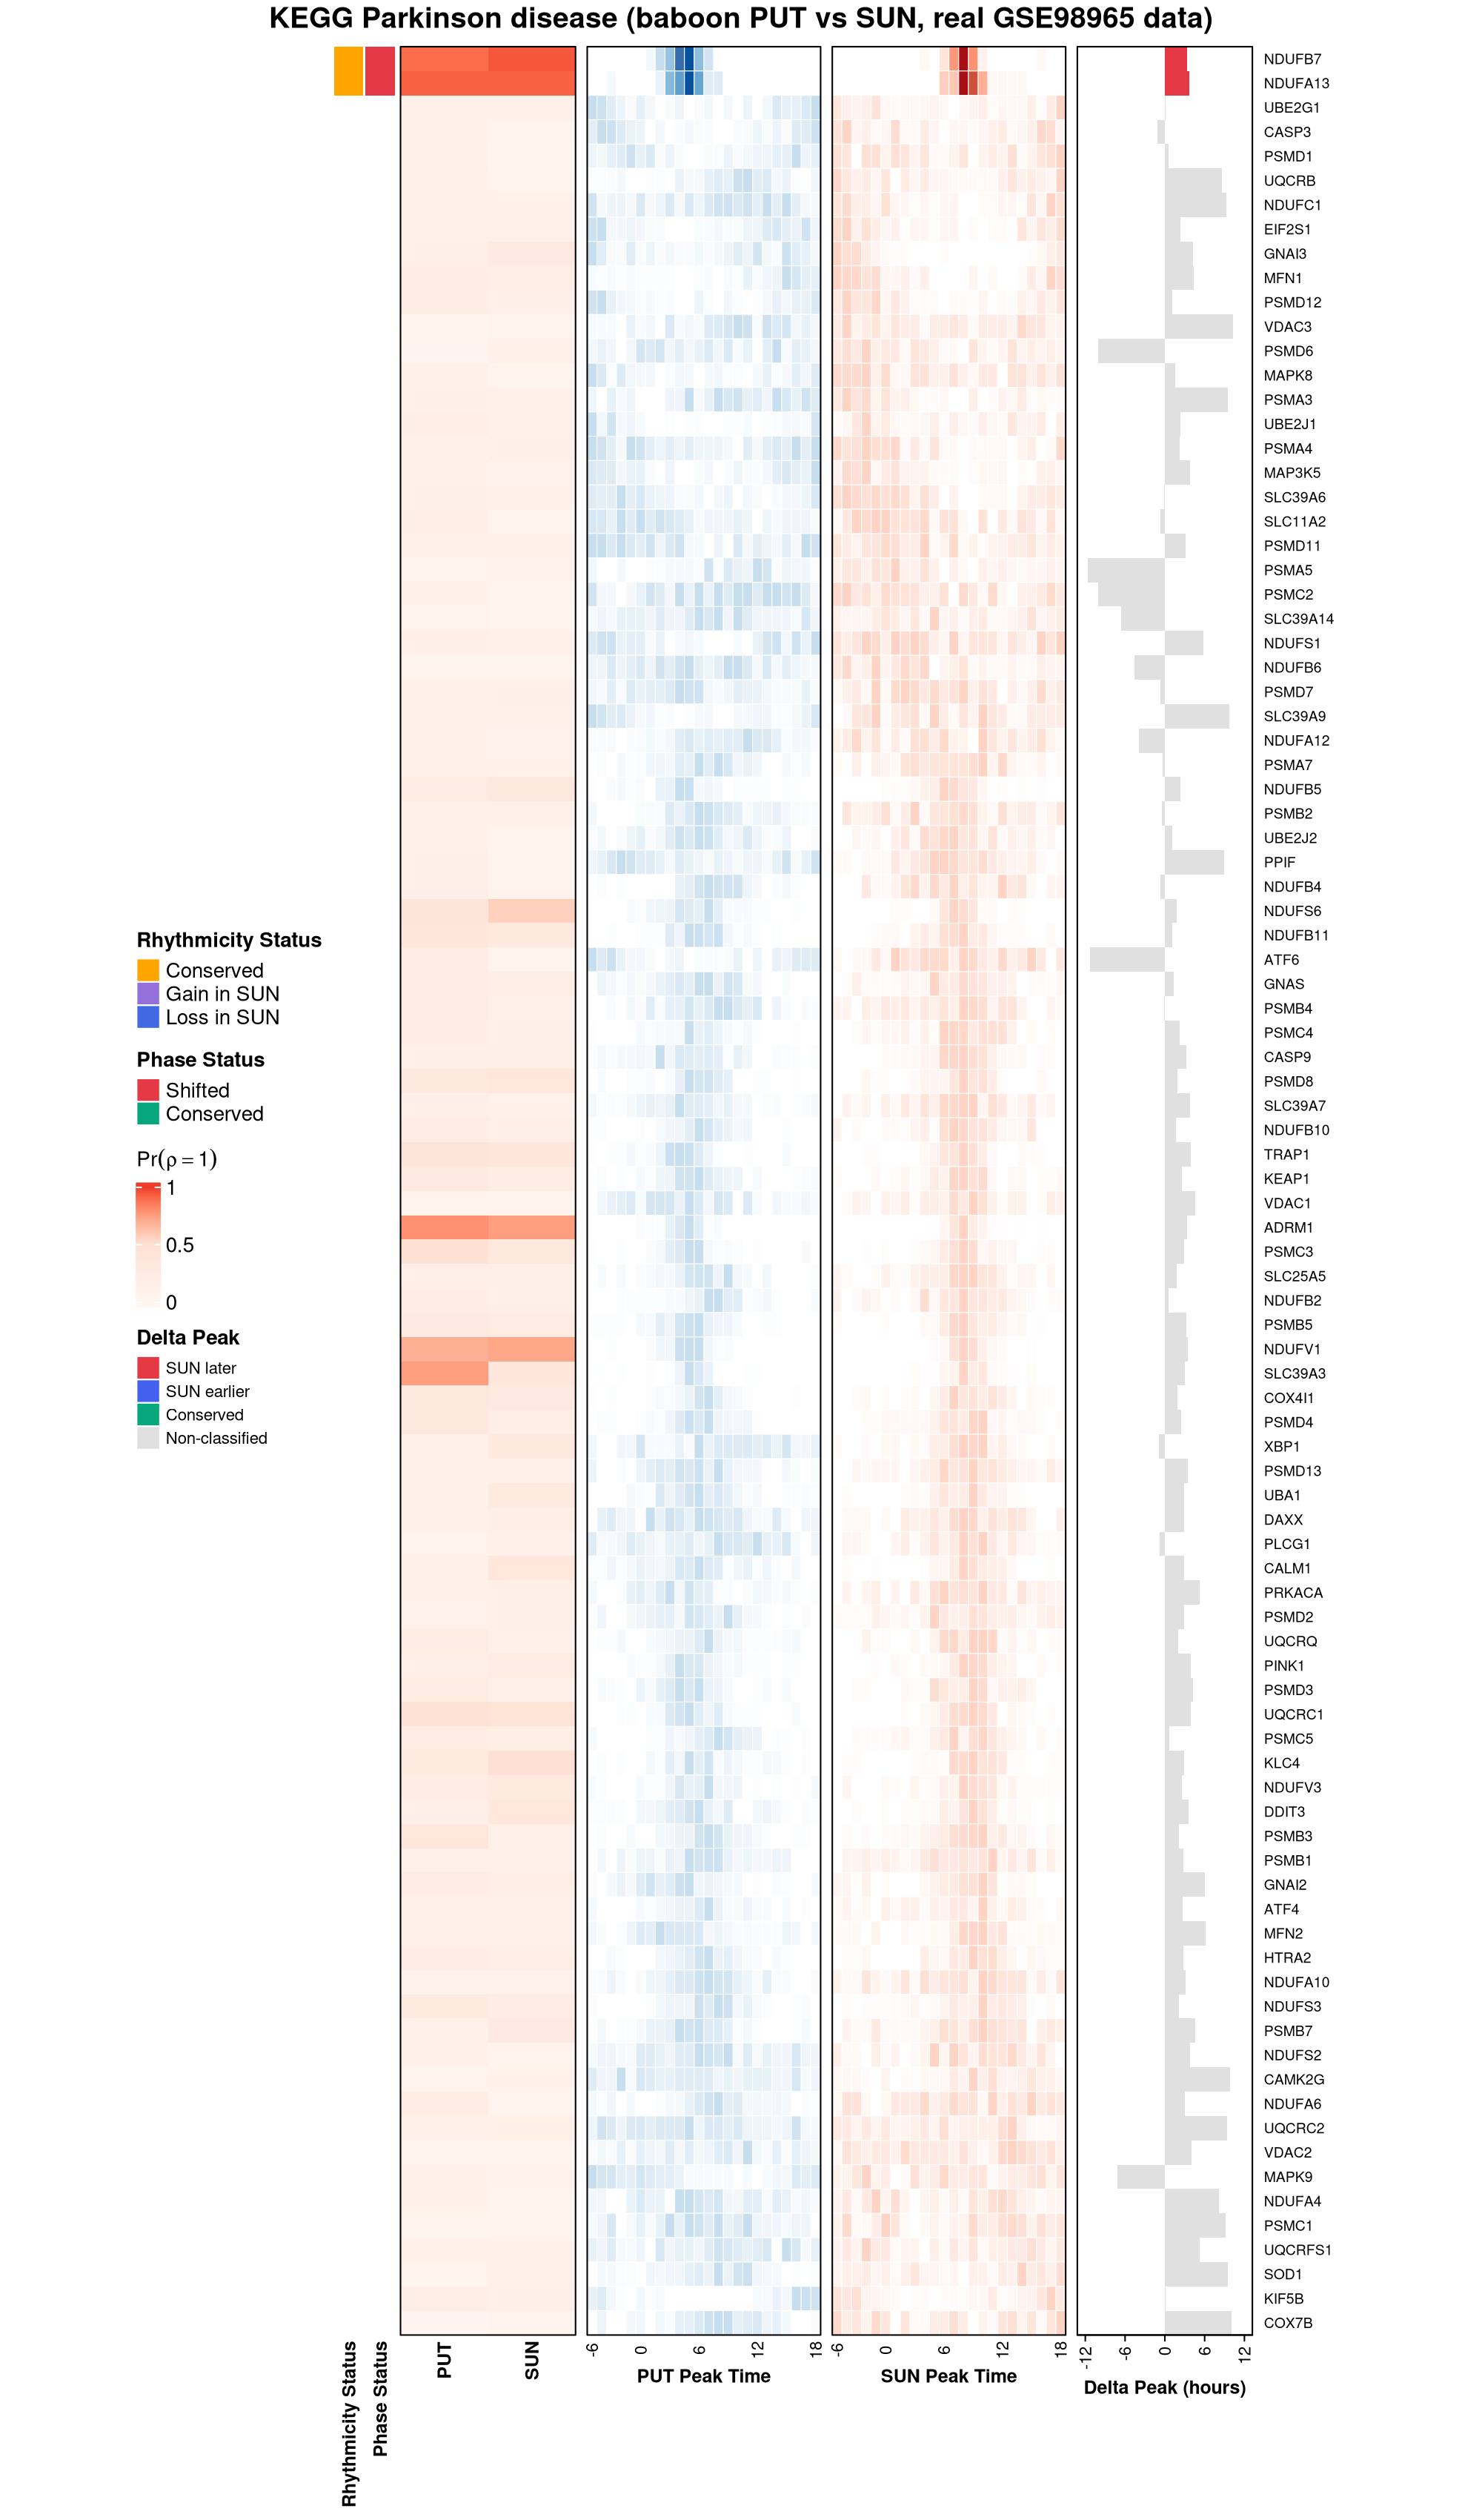
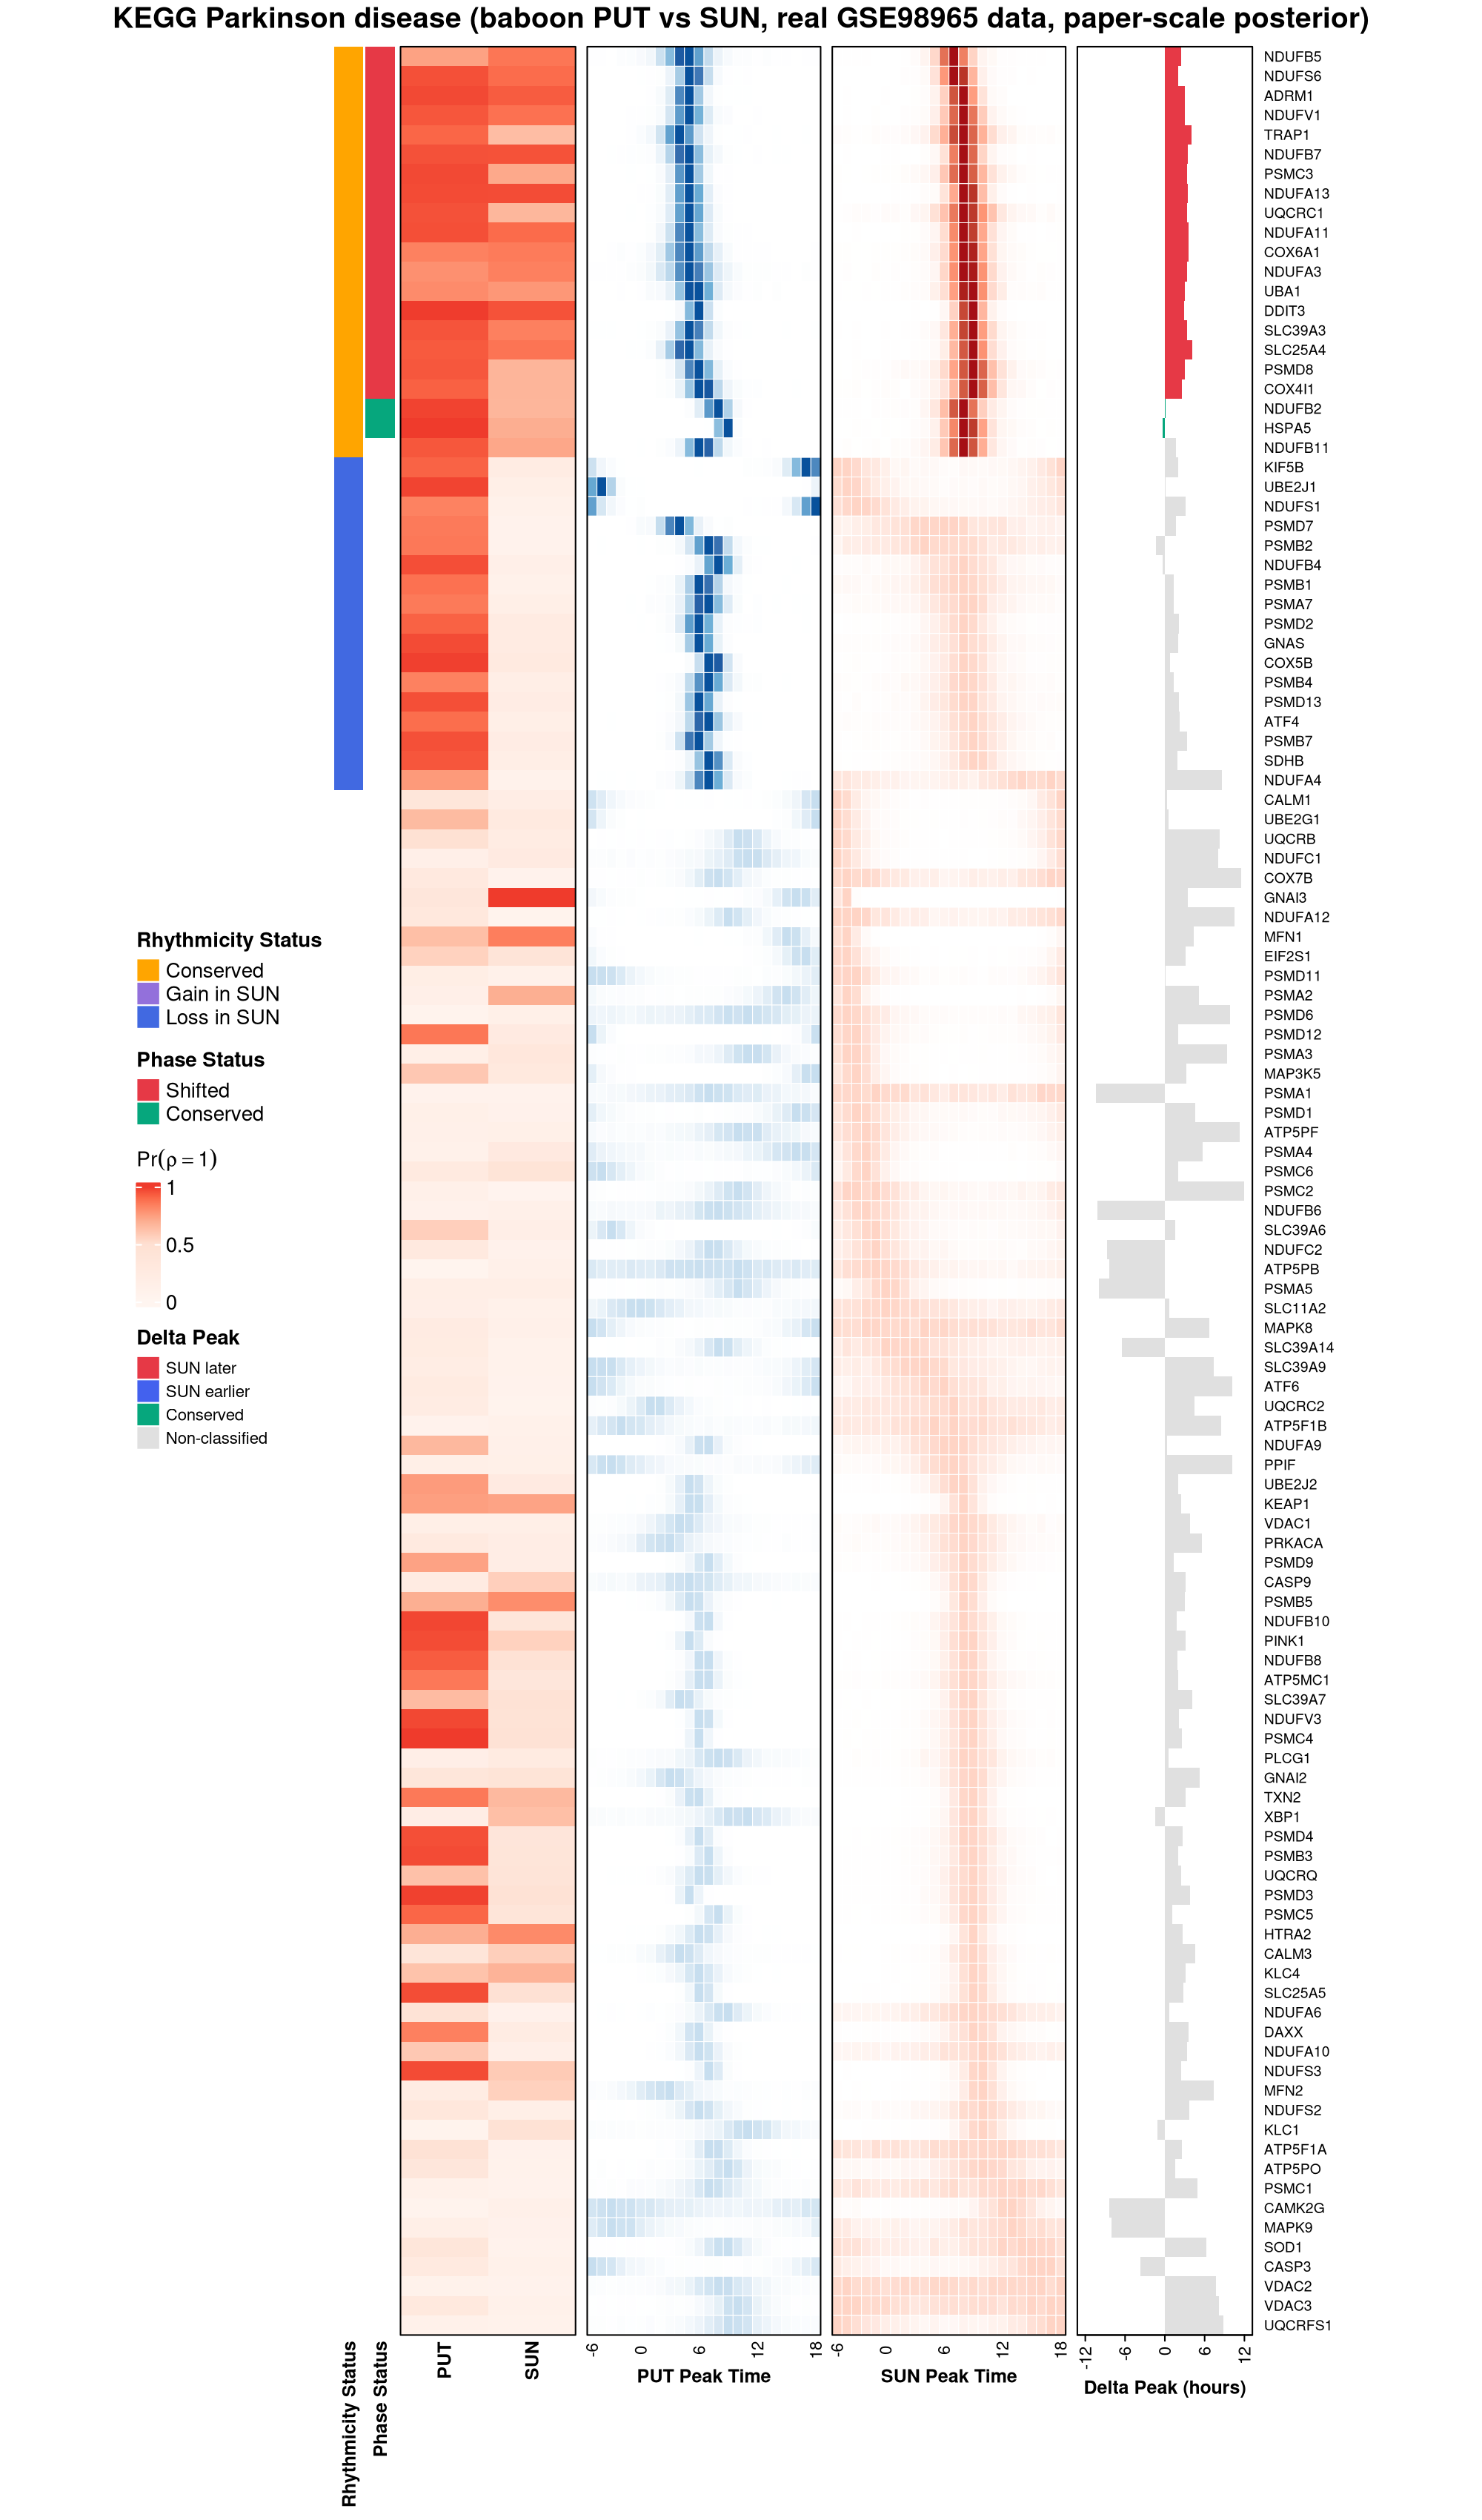
v0.3.0: R CMD check fixes, Cosinor_fit re-export, build hygiene
- Re-export Cosinor_fit (classical cosinor baseline referenced in the
  paper); fixes an R CMD check ERROR where its @user called itself
  while un-exported
- Fix unescaped %% in multi_conservation()'s roxygen doc, which broke
  Rd parsing (unexpected END_OF_INPUT)
- Fix adjust.to.2pi()'s @user to use BayRC:::adjust.to.2pi() since
  it stays un-exported
- Add missing @user docs for multi_conservation()'s save_output,
  use_cpp, compute_pvalue, compute_ci
- Add @user stats/graphics/grDevices/utils to BayRC-package.R
- Drop unused Rfast/truncdist from DESCRIPTION Imports
- Add .Rbuildignore (excludes dev-only files: paper/, Thien/, REVIEW_*)
- Bump version to 0.3.0, rebuild BayRC-manual.pdf (22 selected exports)
- Add Cosinor_fit row to README's MCMC Core function table

Changed region(s): [[0.093, 0.0, 0.899, 0.9353], [0.62, 0.6235, 0.682, 0.6859]]

diff --git a/README.md b/README.md
@@ -220,9 +220,10 @@ section is organized (§2.1 through §2.4).
 |---|---|
 | `CB_init_single()` | Initialize MCMC chain from cosinor fit or random draws |
 | `CBt_init_single()` | Initialization for the pipeline's time-error-aware variant |
-| `CB_MCMC_single_rj_slice()` | Core Reversible Jump MCMC sampler — main engine |
+| `CB_MCMC_single_rj_slice()` | Core Reversible Jump MCMC sampler, the main engine |
 | `CB_getAllEst()` | Posterior point estimates + 95% credible intervals; uses `circular_HDI()` for phase |
 | `CBt_sim_data()` | Simulate circadian data for testing and tutorials |
+| `Cosinor_fit()` | Classical OLS cosinor fit, the non-Bayesian baseline the paper contrasts BayRC with |
 | `circular_HDI()` | Shortest-arc 95% credible interval for a phase posterior |
 | `circular_median()` | Circular median of a phase posterior |
 